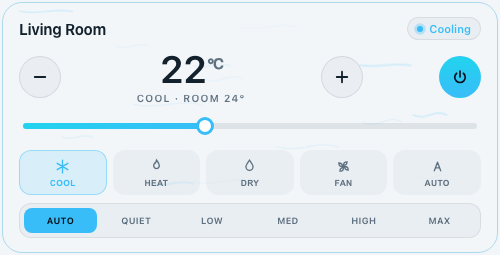
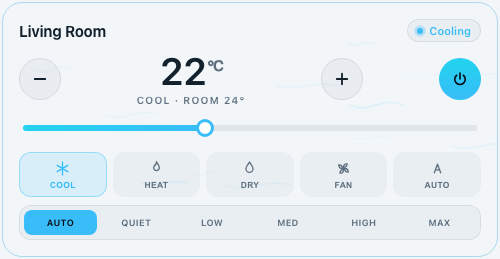
Adopt Homey design tokens throughout both widgets
All theme-dependent colors now come from Homey tokens when running in
the dashboard: mode accents map to homey-color-blue/orange/green/mono
(auto keeps indigo, no purple token exists), subtle fills derive from
the mono scale via color-mix on a single --ink variable, glows derive
from the accent. Spacing moves onto the --homey-su 4px grid and text
uses homey font-size/weight and icon-size tokens. Our palette remains
as var() fallbacks for previews/dev. Canvas resolves the computed
accent since it cannot parse var(). Heights: full 594, mini 259.

diff --git a/widgets/ac-control/public/index.html b/widgets/ac-control/public/index.html
@@ -6,56 +6,53 @@
 <style>
   :root {
     color-scheme: light dark;
-    /* accent is driven by the active mode (set from JS) */
-    --accent:  #38bdf8;
-    --accent-2:#22d3ee;
-    --glow:    rgba(56,189,248,.55);
+    /* accent is driven by the active mode (set from JS); glow derives from it */
+    --accent:  var(--homey-color-blue-400, #38bdf8);
+    --accent-2:var(--homey-color-blue-300, #22d3ee);
+    --glow:    color-mix(in srgb, var(--accent) 55%, transparent);
 
     /* neutrals — Homey design tokens when running in the dashboard,
-       cool-biased slate fallbacks elsewhere (previews, dev) */
+       cool-biased slate fallbacks elsewhere (previews, dev).
+       --ink is the theme's max-contrast mono; subtle fills derive from it. */
+    --ink:       var(--homey-color-mono-1000, #ffffff);
     --surface-1: var(--homey-background-color, #141d27);
     --surface-2: #0e151d;
     --card-edge: var(--homey-line-color-light, rgba(255,255,255,.06));
     --text:      var(--homey-text-color, #eaf2f8);
     --muted:     var(--homey-text-color-light, #7d8f9c);
-    --track:     rgba(255,255,255,.075);
-    --btn:       rgba(255,255,255,.05);
-    --btn-edge:  rgba(255,255,255,.09);
-    --chip:      rgba(255,255,255,.035);
+    --track:     color-mix(in srgb, var(--ink) 8%, transparent);
+    --btn:       color-mix(in srgb, var(--ink) 4.5%, transparent);
+    --btn-edge:  color-mix(in srgb, var(--ink) 9%, transparent);
+    --chip:      color-mix(in srgb, var(--ink) 3.5%, transparent);
   }
   @media (prefers-color-scheme: light) {
     :root {
+      --ink:       var(--homey-color-mono-1000, #0e1e2d);
       --surface-1: var(--homey-background-color, #ffffff);
       --surface-2: #f2f6f9;
       --card-edge: var(--homey-line-color-light, rgba(12,26,38,.08));
       --text:      var(--homey-text-color, #12212c);
       --muted:     var(--homey-text-color-light, #5f7180);
-      --track:     rgba(14,30,45,.09);
-      --btn:       rgba(14,30,45,.04);
-      --btn-edge:  rgba(14,30,45,.10);
-      --chip:      rgba(14,30,45,.035);
     }
   }
   /* the Homey dashboard signals dark mode with this class, independent of
      the OS prefers-color-scheme — it must win over the media query above */
   .homey-dark-mode {
+    --ink:       var(--homey-color-mono-1000, #ffffff);
     --surface-1: var(--homey-background-color, #141d27);
-    --surface-2:#0e151d;
+    --surface-2: #0e151d;
     --card-edge: var(--homey-line-color-light, rgba(255,255,255,.06));
     --text:      var(--homey-text-color, #eaf2f8);
     --muted:     var(--homey-text-color-light, #7d8f9c);
-    --track:rgba(255,255,255,.075);
-    --btn:rgba(255,255,255,.05); --btn-edge:rgba(255,255,255,.09); --chip:rgba(255,255,255,.035);
   }
+  /* forced themes for preview screenshots (tokens absent there) */
   :root[data-theme="dark"] {
-    --surface-1:#141d27; --surface-2:#0e151d; --card-edge:rgba(255,255,255,.06);
-    --text:#eaf2f8; --muted:#7d8f9c; --track:rgba(255,255,255,.075);
-    --btn:rgba(255,255,255,.05); --btn-edge:rgba(255,255,255,.09); --chip:rgba(255,255,255,.035);
+    --ink:#ffffff; --surface-1:#141d27; --surface-2:#0e151d;
+    --card-edge:rgba(255,255,255,.06); --text:#eaf2f8; --muted:#7d8f9c;
   }
   :root[data-theme="light"] {
-    --surface-1:#ffffff; --surface-2:#f2f6f9; --card-edge:rgba(12,26,38,.08);
-    --text:#12212c; --muted:#5f7180; --track:rgba(14,30,45,.09);
-    --btn:rgba(14,30,45,.04); --btn-edge:rgba(14,30,45,.10); --chip:rgba(14,30,45,.035);
+    --ink:#0e1e2d; --surface-1:#ffffff; --surface-2:#f2f6f9;
+    --card-edge:rgba(12,26,38,.08); --text:#12212c; --muted:#5f7180;
   }
 
   * { box-sizing: border-box; }
@@ -64,7 +61,7 @@
     color: var(--text);
     font-family: system-ui, -apple-system, "Segoe UI", Roboto, sans-serif;
     -webkit-font-smoothing: antialiased;
-    font-size: 14px;
+    font-size: var(--homey-font-size-small, 14px);
     padding: 2px;
     user-select: none;
     -webkit-user-select: none;
@@ -73,7 +70,7 @@
   .widget {
     width: 100%;
     border-radius: 24px;
-    padding: 20px 20px 18px;
+    padding: var(--homey-su-5, 20px);
     position: relative;
     overflow: hidden;
     background: transparent;
@@ -92,7 +89,7 @@
   /* header ------------------------------------------------------- */
   header { display: flex; align-items: flex-start; justify-content: space-between; gap: 12px; }
   .eyebrow { font-size: 10.5px; letter-spacing: .18em; text-transform: uppercase; color: var(--muted); font-weight: 600; }
-  .device  { font-size: 18px; font-weight: 650; letter-spacing: -.01em; margin-top: 3px;
+  .device  { font-size: var(--homey-font-size-default, 18px); font-weight: var(--homey-font-weight-bold, 650); letter-spacing: -.01em; margin-top: 3px;
              overflow: hidden; text-overflow: ellipsis; white-space: nowrap; max-width: 190px; }
   .status  {
     display: inline-flex; align-items: center; gap: 7px;
@@ -139,7 +136,7 @@
   .stephint { min-width: 92px; text-align: center; font-size: 11px; letter-spacing: .14em; text-transform: uppercase; color: var(--muted); font-weight: 600; }
 
   /* mode chips --------------------------------------------------- */
-  .modes { display: grid; grid-template-columns: repeat(5, 1fr); gap: 7px; margin-top: 18px; }
+  .modes { display: grid; grid-template-columns: repeat(5, 1fr); gap: var(--homey-su-2, 8px); margin-top: var(--homey-su-4, 16px); }
   .mode {
     display: flex; flex-direction: column; align-items: center; gap: 5px;
     padding: 10px 2px 8px; border-radius: 15px; cursor: pointer;
@@ -147,7 +144,7 @@
     transition: color .2s ease, background .2s ease, border-color .2s ease, transform .12s ease;
     -webkit-tap-highlight-color: transparent;
   }
-  .mode svg { width: 20px; height: 20px; }
+  .mode svg { width: var(--homey-icon-size-medium, 20px); height: var(--homey-icon-size-medium, 20px); }
   .mode span { font-size: 9.5px; letter-spacing: .04em; font-weight: 650; text-transform: uppercase; }
   .mode:active { transform: scale(.95); }
   .mode[aria-pressed="true"] {
@@ -157,8 +154,8 @@
   }
 
   /* fan speed ---------------------------------------------------- */
-  .row-label { display: flex; align-items: center; gap: 8px; margin: 16px 2px 9px; font-size: 11px; letter-spacing: .16em; text-transform: uppercase; color: var(--muted); font-weight: 600; }
-  .row-label svg { width: 14px; height: 14px; }
+  .row-label { display: flex; align-items: center; gap: var(--homey-su-2, 8px); margin: var(--homey-su-4, 16px) 2px var(--homey-su-2, 9px); font-size: 11px; letter-spacing: .16em; text-transform: uppercase; color: var(--muted); font-weight: 600; }
+  .row-label svg { width: var(--homey-icon-size-small, 14px); height: var(--homey-icon-size-small, 14px); }
   .fan { display: grid; grid-template-columns: repeat(6, 1fr); gap: 4px;
          background: var(--chip); border: 1px solid var(--card-edge); border-radius: 14px; padding: 5px; }
   .fanbtn {
@@ -170,9 +167,9 @@
 
   /* power -------------------------------------------------------- */
   .power {
-    margin-top: 16px; width: 100%; height: 54px; border-radius: 17px; cursor: pointer;
-    display: flex; align-items: center; justify-content: center; gap: 10px;
-    font-size: 15px; font-weight: 650; letter-spacing: .01em;
+    margin-top: var(--homey-su-4, 16px); width: 100%; height: 54px; border-radius: 17px; cursor: pointer;
+    display: flex; align-items: center; justify-content: center; gap: var(--homey-su-2, 10px);
+    font-size: var(--homey-font-size-small, 15px); font-weight: var(--homey-font-weight-medium, 650); letter-spacing: .01em;
     border: 1px solid var(--btn-edge); background: var(--btn); color: var(--text);
     transition: transform .12s ease, background .35s ease, border-color .35s ease, box-shadow .35s ease;
     -webkit-tap-highlight-color: transparent;
@@ -261,16 +258,18 @@
   const POLL_MS = 5000;
   const LOCAL_GRACE_MS = 4000; // ignore polled state right after a local change
 
+  // Accents prefer Homey design tokens (present in the dashboard webview)
+  // and fall back to our palette; auto keeps indigo — Homey has no purple token.
   const MODES = {
-    cool: { label: "Cool", a: "#38bdf8", a2: "#22d3ee", glow: "rgba(56,189,248,.55)",
+    cool: { label: "Cool", a: "var(--homey-color-blue-400, #38bdf8)", a2: "var(--homey-color-blue-300, #22d3ee)",
       icon: `<path d="M12 3v18M4.5 7.5l15 9M19.5 7.5l-15 9" stroke-linecap="round"/>` },
-    heat: { label: "Heat", a: "#fb923c", a2: "#f59e0b", glow: "rgba(251,146,60,.55)",
+    heat: { label: "Heat", a: "var(--homey-color-orange-500, #fb923c)", a2: "#f59e0b",
       icon: `<path d="M12 3c2 3 4 4.5 4 8a4 4 0 0 1-8 0c0-1.5.6-2.7 1.4-3.6C10 8.5 11 6.5 12 3Z"/>` },
-    dry:  { label: "Dry",  a: "#34d399", a2: "#2dd4bf", glow: "rgba(52,211,153,.5)",
+    dry:  { label: "Dry",  a: "var(--homey-color-green-500, #34d399)", a2: "#2dd4bf",
       icon: `<path d="M12 3c3 4 5 6.5 5 9.5A5 5 0 0 1 7 12.5C7 9.5 9 7 12 3Z"/>` },
-    fan:  { label: "Fan",  a: "#93a4b3", a2: "#c3d0da", glow: "rgba(147,164,179,.45)",
+    fan:  { label: "Fan",  a: "var(--homey-color-mono-400, #93a4b3)", a2: "#c3d0da",
       icon: `<circle cx="12" cy="12" r="1.6" fill="currentColor" stroke="none"/><path d="M12 10.4c0-3 2-5 5-5 0 3-2 5-5 5Zm0 3.2c0 3-2 5-5 5 0-3 2-5 5-5Zm-1.6-1.6c-3 0-5-2-5-5 3 0 5 2 5 5Zm3.2 0c3 0 5 2 5 5-3 0-5-2-5-5Z"/>` },
-    auto: { label: "Auto", a: "#818cf8", a2: "#a78bfa", glow: "rgba(129,140,248,.5)",
+    auto: { label: "Auto", a: "#818cf8", a2: "#a78bfa",
       icon: `<path d="M7.5 18l4.5-12 4.5 12M9 14h6" stroke-linecap="round" stroke-linejoin="round"/>` },
   };
   // Matches the fan_speed capability values; speed drives the airflow animation.
@@ -342,12 +341,13 @@
   }
 
   // ---- render ------------------------------------------------------------
+  let accentColor = "#38bdf8"; // resolved accent for the canvas (can't parse var())
   function render() {
     const m = MODES[state.mode] || MODES.cool;
     const root = document.documentElement;
     root.style.setProperty("--accent", m.a);
     root.style.setProperty("--accent-2", m.a2);
-    root.style.setProperty("--glow", m.glow);
+    accentColor = getComputedStyle(root).getPropertyValue("--accent").trim() || accentColor;
 
     widget.dataset.on = String(state.on);
 
@@ -438,7 +438,6 @@
     ctx.clearRect(0, 0, W, H);
     if (widget.dataset.on !== "true") return;
     tick += 0.016;
-    const m = MODES[state.mode] || MODES.cool;
     const fan = FANS.find(f => f.key === state.fan);
     const speed = fan ? fan.speed : 1;
     const dir = state.mode === "heat" ? -1 : 1; // heat drifts up-ish
@@ -449,7 +448,7 @@
       ctx.beginPath();
       ctx.moveTo(p.x, yy);
       ctx.bezierCurveTo(p.x - p.len * 0.4, yy - p.amp, p.x - p.len * 0.6, yy + p.amp, p.x - p.len, yy);
-      ctx.strokeStyle = m.a;
+      ctx.strokeStyle = accentColor;
       ctx.globalAlpha = p.o * Math.min(speed, 1.4);
       ctx.lineWidth = p.w; ctx.lineCap = "round";
       ctx.stroke();

diff --git a/widgets/ac-control-mini/public/index.html b/widgets/ac-control-mini/public/index.html
@@ -6,53 +6,50 @@
 <style>
   :root {
     color-scheme: light dark;
-    /* accent is driven by the active mode (set from JS) */
-    --accent:  #38bdf8;
-    --accent-2:#22d3ee;
-    --glow:    rgba(56,189,248,.55);
+    /* accent is driven by the active mode (set from JS); glow derives from it */
+    --accent:  var(--homey-color-blue-400, #38bdf8);
+    --accent-2:var(--homey-color-blue-300, #22d3ee);
+    --glow:    color-mix(in srgb, var(--accent) 55%, transparent);
 
     /* neutrals — Homey design tokens when running in the dashboard,
-       cool-biased slate fallbacks elsewhere (previews, dev) */
+       cool-biased slate fallbacks elsewhere (previews, dev).
+       --ink is the theme's max-contrast mono; subtle fills derive from it. */
+    --ink:       var(--homey-color-mono-1000, #ffffff);
     --surface-1: var(--homey-background-color, #141d27);
     --card-edge: var(--homey-line-color-light, rgba(255,255,255,.06));
     --text:      var(--homey-text-color, #eaf2f8);
     --muted:     var(--homey-text-color-light, #7d8f9c);
-    --track:     rgba(255,255,255,.075);
-    --btn:       rgba(255,255,255,.05);
-    --btn-edge:  rgba(255,255,255,.09);
-    --chip:      rgba(255,255,255,.035);
+    --track:     color-mix(in srgb, var(--ink) 8%, transparent);
+    --btn:       color-mix(in srgb, var(--ink) 4.5%, transparent);
+    --btn-edge:  color-mix(in srgb, var(--ink) 9%, transparent);
+    --chip:      color-mix(in srgb, var(--ink) 3.5%, transparent);
   }
   @media (prefers-color-scheme: light) {
     :root {
+      --ink:       var(--homey-color-mono-1000, #0e1e2d);
       --surface-1: var(--homey-background-color, #ffffff);
       --card-edge: var(--homey-line-color-light, rgba(12,26,38,.08));
       --text:      var(--homey-text-color, #12212c);
       --muted:     var(--homey-text-color-light, #5f7180);
-      --track:     rgba(14,30,45,.09);
-      --btn:       rgba(14,30,45,.04);
-      --btn-edge:  rgba(14,30,45,.10);
-      --chip:      rgba(14,30,45,.035);
     }
   }
   /* the Homey dashboard signals dark mode with this class, independent of
      the OS prefers-color-scheme — it must win over the media query above */
   .homey-dark-mode {
+    --ink:       var(--homey-color-mono-1000, #ffffff);
     --surface-1: var(--homey-background-color, #141d27);
     --card-edge: var(--homey-line-color-light, rgba(255,255,255,.06));
     --text:      var(--homey-text-color, #eaf2f8);
     --muted:     var(--homey-text-color-light, #7d8f9c);
-    --track:rgba(255,255,255,.075);
-    --btn:rgba(255,255,255,.05); --btn-edge:rgba(255,255,255,.09); --chip:rgba(255,255,255,.035);
   }
+  /* forced themes for preview screenshots (tokens absent there) */
   :root[data-theme="dark"] {
-    --surface-1:#141d27; --card-edge:rgba(255,255,255,.06);
-    --text:#eaf2f8; --muted:#7d8f9c; --track:rgba(255,255,255,.075);
-    --btn:rgba(255,255,255,.05); --btn-edge:rgba(255,255,255,.09); --chip:rgba(255,255,255,.035);
+    --ink:#ffffff; --surface-1:#141d27;
+    --card-edge:rgba(255,255,255,.06); --text:#eaf2f8; --muted:#7d8f9c;
   }
   :root[data-theme="light"] {
-    --surface-1:#ffffff; --card-edge:rgba(12,26,38,.08);
-    --text:#12212c; --muted:#5f7180; --track:rgba(14,30,45,.09);
-    --btn:rgba(14,30,45,.04); --btn-edge:rgba(14,30,45,.10); --chip:rgba(14,30,45,.035);
+    --ink:#0e1e2d; --surface-1:#ffffff;
+    --card-edge:rgba(12,26,38,.08); --text:#12212c; --muted:#5f7180;
   }
 
   * { box-sizing: border-box; }
@@ -61,7 +58,7 @@
     color: var(--text);
     font-family: system-ui, -apple-system, "Segoe UI", Roboto, sans-serif;
     -webkit-font-smoothing: antialiased;
-    font-size: 14px;
+    font-size: var(--homey-font-size-small, 14px);
     padding: 2px;
     user-select: none;
     -webkit-user-select: none;
@@ -70,7 +67,7 @@
   .widget {
     width: 100%;
     border-radius: 20px;
-    padding: 14px 16px 14px;
+    padding: var(--homey-su-4, 16px);
     position: relative;
     overflow: hidden;
     background: transparent;
@@ -88,7 +85,7 @@
 
   /* header ------------------------------------------------------- */
   header { display: flex; align-items: center; justify-content: space-between; gap: 10px; }
-  .device  { font-size: 15px; font-weight: 650; letter-spacing: -.01em;
+  .device  { font-size: var(--homey-font-size-small, 15px); font-weight: var(--homey-font-weight-bold, 650); letter-spacing: -.01em;
              overflow: hidden; text-overflow: ellipsis; white-space: nowrap; min-width: 0; }
   .status  {
     display: inline-flex; align-items: center; gap: 6px;
@@ -103,7 +100,7 @@
   @keyframes pulse { 0%{box-shadow:0 0 0 0 var(--glow);} 70%{box-shadow:0 0 0 6px transparent;} 100%{box-shadow:0 0 0 0 transparent;} }
 
   /* temp row ------------------------------------------------------ */
-  .temprow { display: flex; align-items: center; justify-content: space-between; gap: 10px; margin-top: 10px; }
+  .temprow { display: flex; align-items: center; justify-content: space-between; gap: var(--homey-su-2, 10px); margin-top: var(--homey-su-2, 10px); }
   .step {
     width: 42px; height: 42px; border-radius: 50%; flex: none;
     border: 1px solid var(--btn-edge); background: var(--btn); color: var(--text);
@@ -155,7 +152,7 @@
   }
 
   /* mode chips --------------------------------------------------- */
-  .modes { display: grid; grid-template-columns: repeat(5, 1fr); gap: 6px; margin-top: 10px; }
+  .modes { display: grid; grid-template-columns: repeat(5, 1fr); gap: var(--homey-su-1, 6px); margin-top: var(--homey-su-2, 10px); }
   .mode {
     display: flex; flex-direction: column; align-items: center; gap: 3px;
     padding: 7px 2px 6px; border-radius: 12px; cursor: pointer;
@@ -173,7 +170,7 @@
   }
 
   /* fan speed ---------------------------------------------------- */
-  .fan { display: grid; grid-template-columns: repeat(6, 1fr); gap: 3px; margin-top: 8px;
+  .fan { display: grid; grid-template-columns: repeat(6, 1fr); gap: 3px; margin-top: var(--homey-su-2, 8px);
          background: var(--chip); border: 1px solid var(--card-edge); border-radius: 12px; padding: 4px; }
   .fanbtn {
     border: none; background: transparent; color: var(--muted); cursor: pointer;
@@ -237,16 +234,18 @@
   const POLL_MS = 5000;
   const LOCAL_GRACE_MS = 4000; // ignore polled state right after a local change
 
+  // Accents prefer Homey design tokens (present in the dashboard webview)
+  // and fall back to our palette; auto keeps indigo — Homey has no purple token.
   const MODES = {
-    cool: { label: "Cool", a: "#38bdf8", a2: "#22d3ee", glow: "rgba(56,189,248,.55)",
+    cool: { label: "Cool", a: "var(--homey-color-blue-400, #38bdf8)", a2: "var(--homey-color-blue-300, #22d3ee)",
       icon: `<path d="M12 3v18M4.5 7.5l15 9M19.5 7.5l-15 9" stroke-linecap="round"/>` },
-    heat: { label: "Heat", a: "#fb923c", a2: "#f59e0b", glow: "rgba(251,146,60,.55)",
+    heat: { label: "Heat", a: "var(--homey-color-orange-500, #fb923c)", a2: "#f59e0b",
       icon: `<path d="M12 3c2 3 4 4.5 4 8a4 4 0 0 1-8 0c0-1.5.6-2.7 1.4-3.6C10 8.5 11 6.5 12 3Z"/>` },
-    dry:  { label: "Dry",  a: "#34d399", a2: "#2dd4bf", glow: "rgba(52,211,153,.5)",
+    dry:  { label: "Dry",  a: "var(--homey-color-green-500, #34d399)", a2: "#2dd4bf",
       icon: `<path d="M12 3c3 4 5 6.5 5 9.5A5 5 0 0 1 7 12.5C7 9.5 9 7 12 3Z"/>` },
-    fan:  { label: "Fan",  a: "#93a4b3", a2: "#c3d0da", glow: "rgba(147,164,179,.45)",
+    fan:  { label: "Fan",  a: "var(--homey-color-mono-400, #93a4b3)", a2: "#c3d0da",
       icon: `<circle cx="12" cy="12" r="1.6" fill="currentColor" stroke="none"/><path d="M12 10.4c0-3 2-5 5-5 0 3-2 5-5 5Zm0 3.2c0 3-2 5-5 5 0-3 2-5 5-5Zm-1.6-1.6c-3 0-5-2-5-5 3 0 5 2 5 5Zm3.2 0c3 0 5 2 5 5-3 0-5-2-5-5Z"/>` },
-    auto: { label: "Auto", a: "#818cf8", a2: "#a78bfa", glow: "rgba(129,140,248,.5)",
+    auto: { label: "Auto", a: "#818cf8", a2: "#a78bfa",
       icon: `<path d="M7.5 18l4.5-12 4.5 12M9 14h6" stroke-linecap="round" stroke-linejoin="round"/>` },
   };
   // Matches the fan_speed capability values; speed drives the airflow animation.
@@ -306,12 +305,13 @@
   }
 
   // ---- render ------------------------------------------------------------
+  let accentColor = "#38bdf8"; // resolved accent for the canvas (can't parse var())
   function render() {
     const m = MODES[state.mode] || MODES.cool;
     const root = document.documentElement;
     root.style.setProperty("--accent", m.a);
     root.style.setProperty("--accent-2", m.a2);
-    root.style.setProperty("--glow", m.glow);
+    accentColor = getComputedStyle(root).getPropertyValue("--accent").trim() || accentColor;
 
     widget.dataset.on = String(state.on);
 
@@ -395,7 +395,6 @@
     ctx.clearRect(0, 0, W, H);
     if (widget.dataset.on !== "true") return;
     tick += 0.016;
-    const m = MODES[state.mode] || MODES.cool;
     const fan = FANS.find(f => f.key === state.fan);
     const speed = fan ? fan.speed : 1;
     const dir = state.mode === "heat" ? -1 : 1; // heat drifts up-ish
@@ -406,7 +405,7 @@
       ctx.beginPath();
       ctx.moveTo(p.x, yy);
       ctx.bezierCurveTo(p.x - p.len * 0.4, yy - p.amp, p.x - p.len * 0.6, yy + p.amp, p.x - p.len, yy);
-      ctx.strokeStyle = m.a;
+      ctx.strokeStyle = accentColor;
       ctx.globalAlpha = p.o * Math.min(speed, 1.4);
       ctx.lineWidth = p.w; ctx.lineCap = "round";
       ctx.stroke();
